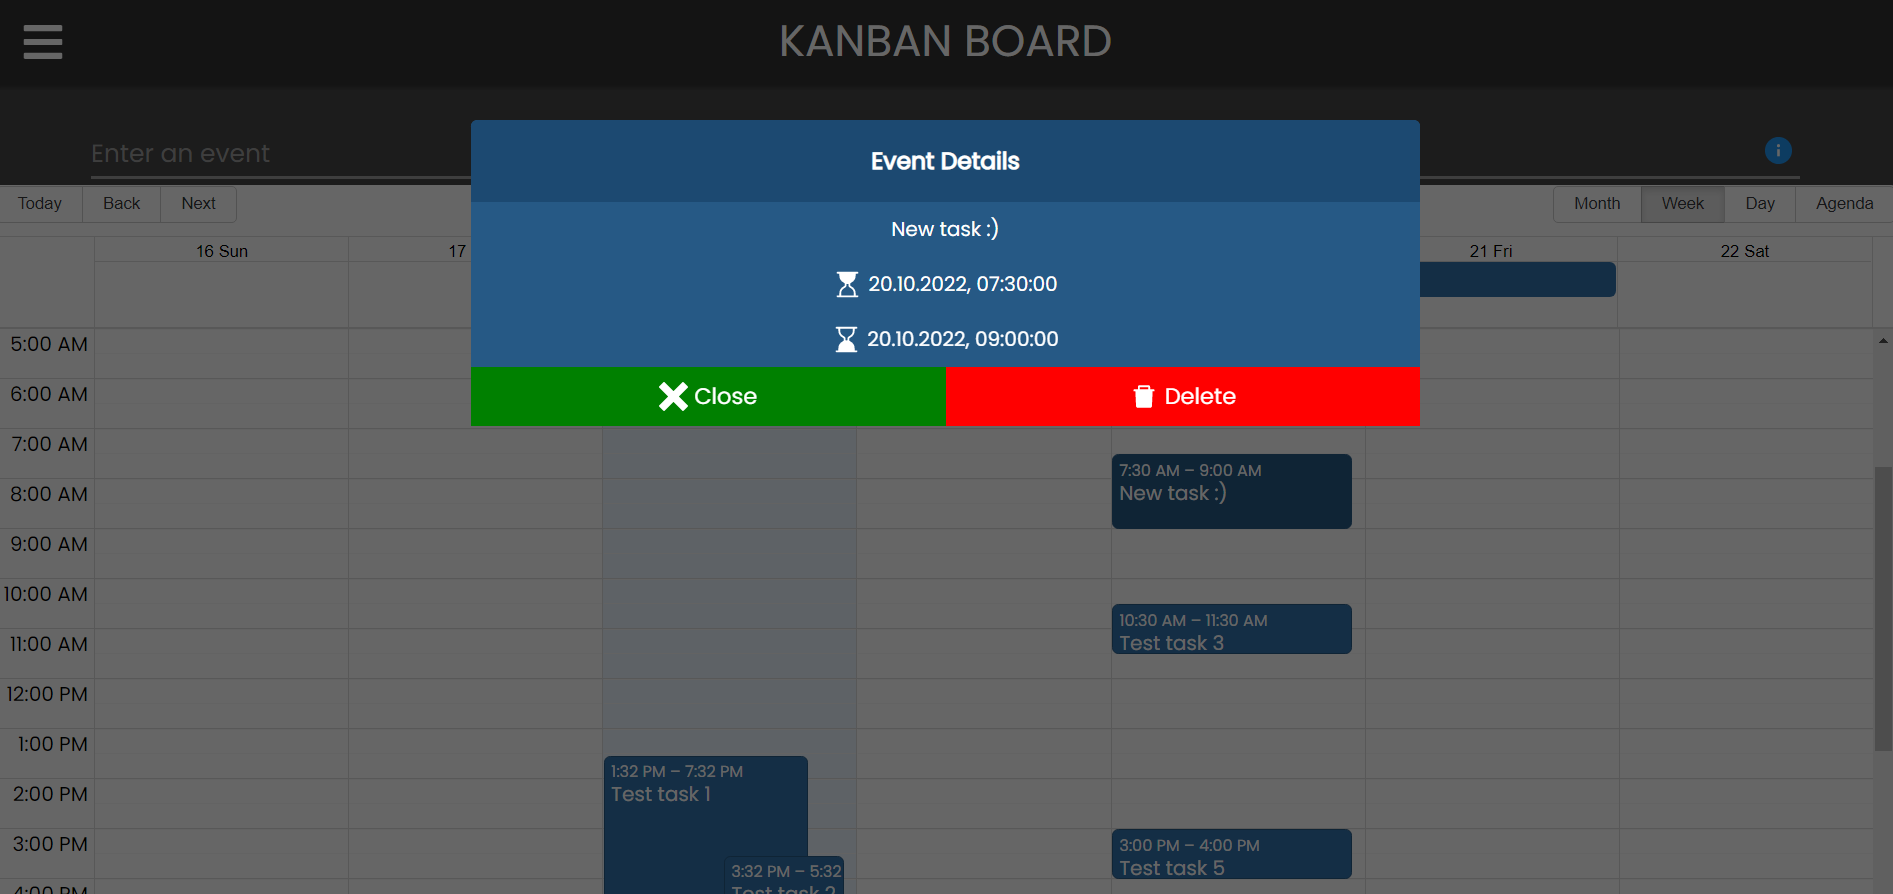
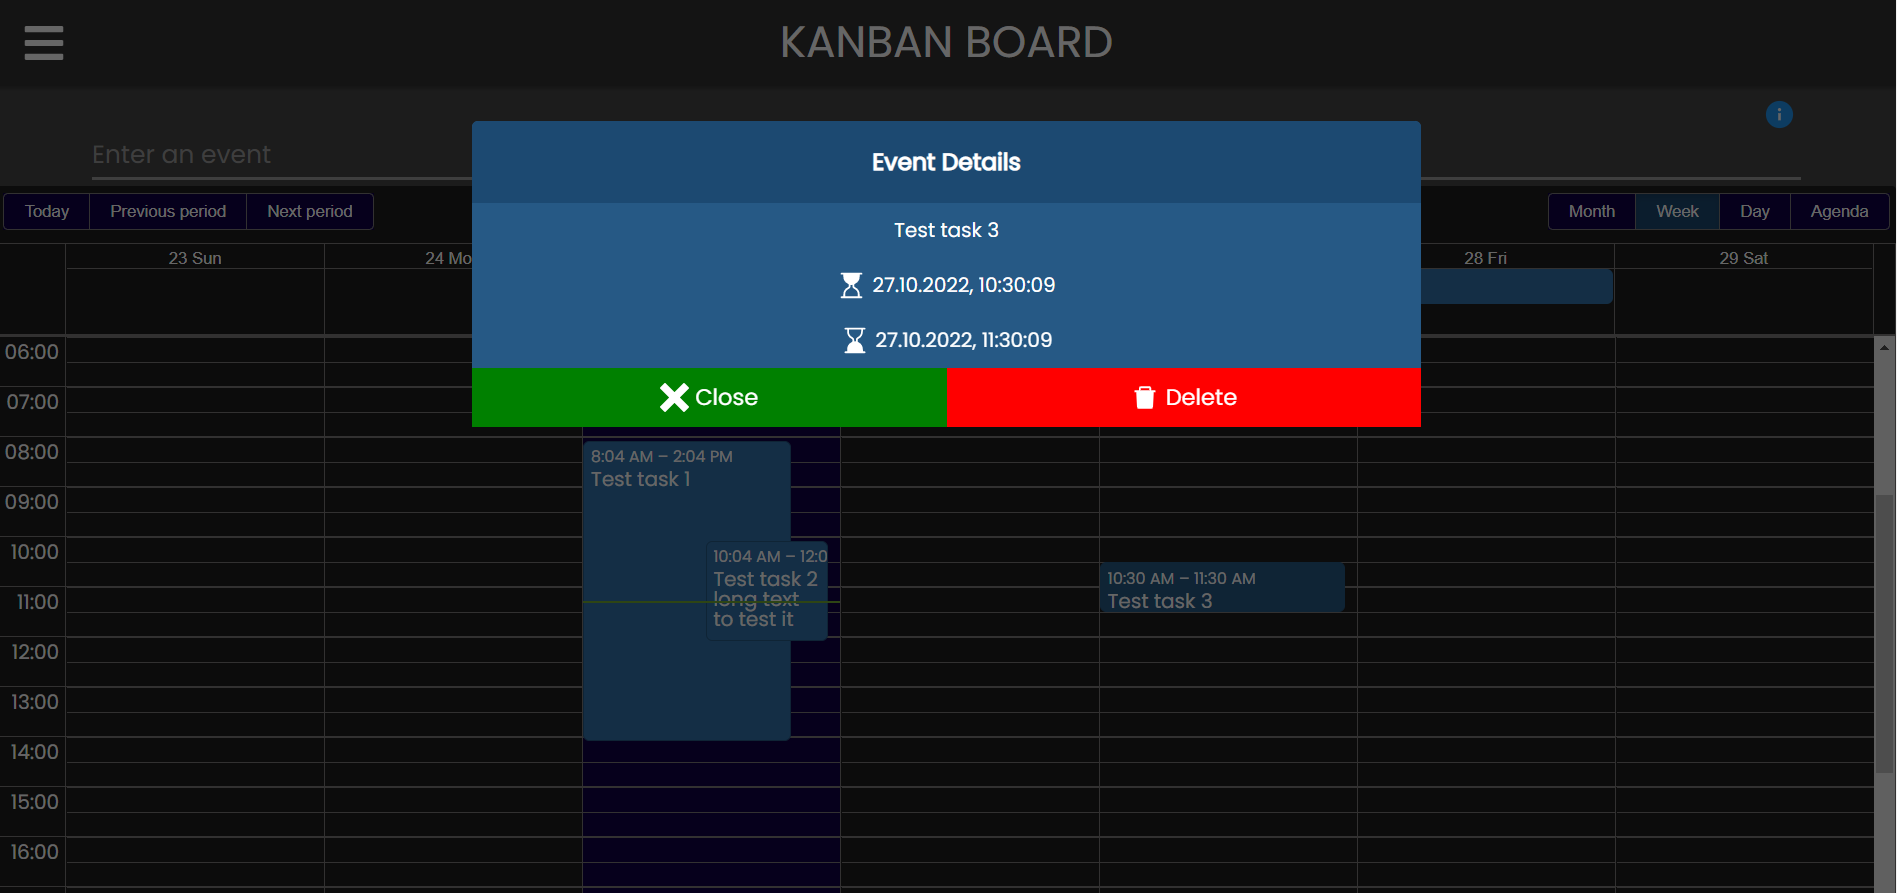
Event Calendar styles

diff --git a/src/styles/styles.scss b/src/styles/styles.scss
@@ -64,11 +64,13 @@ html {
 @media (max-width: 420px) {
     .topbar {
         .icon-bars {
-            top: 150px !important;
+            top: 83px !important;
             left: -5px !important;
-            color: #333333 !important;
-            font-size: 30px !important;
         }
+    }
+    .wrapper-event {
+        margin: 0px 5px 0px auto !important;
+        width: 80% !important;
     }
 }
 
@@ -645,30 +647,143 @@ html {
     }
 }
 .rbc-calendar {
-    background-color: white;
+    background-color: $main-color-darken;
     border-radius: 3px;
-    .rbc-show-more {
-        width: 100%;
-        text-align: left;
-        margin-top: 3px;
+    .rbc-today {
+        background-color: #100145;
     }
-    .rbc-agenda-event-cell {
-        white-space: nowrap;
+    .rbc-header {
+        color: white;
+        border-bottom: 1px solid $main-color-lighter;
+        & + .rbc-header {
+            border-left: 1px solid $main-color-lighter;
+        }
+    }
+    .rbc-day-bg {
+        & + .rbc-day-bg {
+            border-left: 1px solid $main-color-lighter;
+        }
     }
     .rbc-toolbar {
+        margin: 5px 5px 10px 5px;
         .rbc-toolbar-label {
             font-size: 20px;
+            color: white;
         }
         .rbc-btn-group {
+            background-color: #100145;
             button {
+                color: white;
                 cursor: pointer;
+                border: 1px solid $main-color-lighter;
+                transition: 0.2s background-color;
+                &:hover,
+                &:focus {
+                    background-color: #1c4971;
+                    color: white;
+                }
+            }
+            .rbc-active {
+                background-color: #1c4971;
+                transition: 0.2s color;
+                &:hover {
+                    color: white;
+                }
+            }
+        }
+    }
+    .rbc-month-view {
+        border: 1px solid $main-color-lighter;
+        .rbc-off-range-bg {
+            background-color: $main-color;
+        }
+        .rbc-today {
+            background-color: #100145;
+        }
+        .rbc-date-cell {
+            .rbc-button-link {
+                color: white;
+                transition: 0.2s transform;
+                &:hover {
+                    transform: scale(1.1);
+                }
+            }
+        }
+        .rbc-show-more {
+            margin-top: 3px;
+            background-color: inherit;
+            width: 90%;
+            text-align: left;
+            color: white;
+            transition: 0.2s color;
+            &:hover {
+                color: #4f96d4;
+            }
+        }
+        .rbc-selected-cell {
+            background-color: #035106;
+        }
+        .rbc-month-row {
+            & + .rbc-month-row {
+                border-top: 1px solid $main-color-lighter;
             }
         }
     }
     .rbc-time-view {
+        border: 1px solid $main-color-lighter;
+        .rbc-time-header-content {
+            border-left: 1px solid $main-color-lighter;
+            .rbc-header {
+                button {
+                    transition: 0.2s color;
+                    &:hover {
+                        color: #4f96d4;
+                    }
+                }
+            }
+        }
+        .rbc-time-header.rbc-overflowing {
+            border-right: 1px solid $main-color-lighter;
+        }
         .rbc-time-content {
+            border-top: 2px solid $main-color-lighter;
+            & > * + * > * {
+                border-left: 1px solid $main-color-lighter;
+            }
             .rbc-event {
                 flex-flow: column !important;
+            }
+        }
+        .rbc-timeslot-group {
+            border-bottom: 1px solid $main-color-lighter;
+            .rbc-label {
+                color: white;
+            }
+        }
+        .rbc-day-slot {
+            .rbc-timeslot-group {
+                .rbc-time-slot {
+                    border-top: 1px solid $main-color-lighter;
+                }
+            }
+        }
+    }
+    .rbc-agenda-view {
+        color: white;
+        table.rbc-agenda-table {
+            border: 1px solid $main-color-lighter;
+            .rbc-agenda-event-cell {
+                white-space: nowrap;
+                cursor: pointer;
+            }
+            thead > tr > th {
+                border-bottom: 1px solid $main-color-lighter;
+            }
+            tbody > tr > td + td {
+                border-left: 1px solid $main-color-lighter;
+            }
+            tbody > tr + tr {
+                border-top: 1px solid $main-color-lighter;
             }
         }
     }
@@ -733,7 +848,7 @@ html {
     .info-event-container {
         position: absolute;
         right: 5px;
-        top: 20px;
+        top: -10px;
         .icon-info {
             font-size: 25px;
             color: white;

diff --git a/src/styles/styles.css b/src/styles/styles.css
@@ -46,10 +46,12 @@ html {
 }
 @media (max-width: 420px) {
   .topbar .icon-bars {
-    top: 150px !important;
+    top: 83px !important;
     left: -5px !important;
-    color: #333333 !important;
-    font-size: 30px !important;
+  }
+  .wrapper-event {
+    margin: 0px 5px 0px auto !important;
+    width: 80% !important;
   }
 }
 .task-container .task-modal-button {
@@ -654,25 +656,133 @@ html {
 }
 
 .rbc-calendar {
-  background-color: white;
+  background-color: #1f1f1f;
   border-radius: 3px;
 }
-.rbc-calendar .rbc-show-more {
-  width: 100%;
-  text-align: left;
-  margin-top: 3px;
+.rbc-calendar .rbc-today {
+  background-color: #100145;
 }
-.rbc-calendar .rbc-agenda-event-cell {
-  white-space: nowrap;
+.rbc-calendar .rbc-header {
+  color: white;
+  border-bottom: 1px solid #7c7b7b;
+}
+.rbc-calendar .rbc-header + .rbc-header {
+  border-left: 1px solid #7c7b7b;
+}
+.rbc-calendar .rbc-day-bg + .rbc-day-bg {
+  border-left: 1px solid #7c7b7b;
+}
+.rbc-calendar .rbc-toolbar {
+  margin: 5px 5px 10px 5px;
 }
 .rbc-calendar .rbc-toolbar .rbc-toolbar-label {
   font-size: 20px;
+  color: white;
+}
+.rbc-calendar .rbc-toolbar .rbc-btn-group {
+  background-color: #100145;
 }
 .rbc-calendar .rbc-toolbar .rbc-btn-group button {
+  color: white;
   cursor: pointer;
+  border: 1px solid #7c7b7b;
+  transition: 0.2s background-color;
+}
+.rbc-calendar .rbc-toolbar .rbc-btn-group button:hover, .rbc-calendar .rbc-toolbar .rbc-btn-group button:focus {
+  background-color: #1c4971;
+  color: white;
+}
+.rbc-calendar .rbc-toolbar .rbc-btn-group .rbc-active {
+  background-color: #1c4971;
+  transition: 0.2s color;
+}
+.rbc-calendar .rbc-toolbar .rbc-btn-group .rbc-active:hover {
+  color: white;
+}
+.rbc-calendar .rbc-month-view {
+  border: 1px solid #7c7b7b;
+}
+.rbc-calendar .rbc-month-view .rbc-off-range-bg {
+  background-color: #474747;
+}
+.rbc-calendar .rbc-month-view .rbc-today {
+  background-color: #100145;
+}
+.rbc-calendar .rbc-month-view .rbc-date-cell .rbc-button-link {
+  color: white;
+  transition: 0.2s transform;
+}
+.rbc-calendar .rbc-month-view .rbc-date-cell .rbc-button-link:hover {
+  transform: scale(1.1);
+}
+.rbc-calendar .rbc-month-view .rbc-show-more {
+  margin-top: 3px;
+  background-color: inherit;
+  width: 90%;
+  text-align: left;
+  color: white;
+  transition: 0.2s color;
+}
+.rbc-calendar .rbc-month-view .rbc-show-more:hover {
+  color: #4f96d4;
+}
+.rbc-calendar .rbc-month-view .rbc-selected-cell {
+  background-color: #035106;
+}
+.rbc-calendar .rbc-month-view .rbc-month-row + .rbc-month-row {
+  border-top: 1px solid #7c7b7b;
+}
+.rbc-calendar .rbc-time-view {
+  border: 1px solid #7c7b7b;
+}
+.rbc-calendar .rbc-time-view .rbc-time-header-content {
+  border-left: 1px solid #7c7b7b;
+}
+.rbc-calendar .rbc-time-view .rbc-time-header-content .rbc-header button {
+  transition: 0.2s color;
+}
+.rbc-calendar .rbc-time-view .rbc-time-header-content .rbc-header button:hover {
+  color: #4f96d4;
+}
+.rbc-calendar .rbc-time-view .rbc-time-header.rbc-overflowing {
+  border-right: 1px solid #7c7b7b;
+}
+.rbc-calendar .rbc-time-view .rbc-time-content {
+  border-top: 2px solid #7c7b7b;
+}
+.rbc-calendar .rbc-time-view .rbc-time-content > * + * > * {
+  border-left: 1px solid #7c7b7b;
 }
 .rbc-calendar .rbc-time-view .rbc-time-content .rbc-event {
   flex-flow: column !important;
+}
+.rbc-calendar .rbc-time-view .rbc-timeslot-group {
+  border-bottom: 1px solid #7c7b7b;
+}
+.rbc-calendar .rbc-time-view .rbc-timeslot-group .rbc-label {
+  color: white;
+}
+.rbc-calendar .rbc-time-view .rbc-day-slot .rbc-timeslot-group .rbc-time-slot {
+  border-top: 1px solid #7c7b7b;
+}
+.rbc-calendar .rbc-agenda-view {
+  color: white;
+}
+.rbc-calendar .rbc-agenda-view table.rbc-agenda-table {
+  border: 1px solid #7c7b7b;
+}
+.rbc-calendar .rbc-agenda-view table.rbc-agenda-table .rbc-agenda-event-cell {
+  white-space: nowrap;
+  cursor: pointer;
+}
+.rbc-calendar .rbc-agenda-view table.rbc-agenda-table thead > tr > th {
+  border-bottom: 1px solid #7c7b7b;
+}
+.rbc-calendar .rbc-agenda-view table.rbc-agenda-table tbody > tr > td + td {
+  border-left: 1px solid #7c7b7b;
+}
+.rbc-calendar .rbc-agenda-view table.rbc-agenda-table tbody > tr + tr {
+  border-top: 1px solid #7c7b7b;
 }
 
 @media (max-width: 650px) {
@@ -749,7 +859,7 @@ html {
 .wrapper-event .info-event-container {
   position: absolute;
   right: 5px;
-  top: 20px;
+  top: -10px;
 }
 .wrapper-event .info-event-container .icon-info {
   font-size: 25px;

diff --git a/src/pages/EventCalendarPage.tsx b/src/pages/EventCalendarPage.tsx
@@ -132,6 +132,24 @@ const EventCalendarPage: React.FC = () => {
                 onSelectSlot={handleSelectSlot}
                 onSelectEvent={handleSelectEvent}
                 selectable
+                formats={{
+                    agendaHeaderFormat: ({ start, end }) =>
+                        moment(start).format('DD.MM.YYYY') +
+                        ' - ' +
+                        moment(end).format('DD.MM.YYYY'),
+
+                    agendaTimeRangeFormat: ({ start, end }) =>
+                        moment(start).format('HH:mm') +
+                        ' - ' +
+                        moment(end).format('HH:mm'),
+
+                    agendaTimeFormat: (date) => moment(date).format('HH:mm'),
+                    timeGutterFormat: (date) => moment(date).format('HH:mm'),
+                }}
+                messages={{
+                    previous: 'Previous period',
+                    next: 'Next period',
+                }}
             />
         </div>
     )

diff --git a/README.md b/README.md
@@ -1,7 +1,7 @@
 # Kanban Board
 
 An application used to manage your tasks.<br />
-Built with React, TypeScript, SCSS<br />
+Built with React (Context API and React Router), TypeScript, SCSS<br />
 In order to work well with this application, you need to clone the API from this [repo](https://github.com/rnycz/kanban-board-api) created specifically for this project and follow the steps to set it up. If not, you can continue in offline mode, but if you close the application, the progress will not be saved. <br />
 Event calendar thanks to [React Big Calendar](http://jquense.github.io/react-big-calendar/examples/?path=/story/about-big-calendar--page) <br />
 Notifications thanks to [React Toastify](https://www.npmjs.com/package/react-toastify) <br />
@@ -16,9 +16,7 @@ The following features have been implemented:
 -   Random joke fetched from [Dev Joke API](https://documenter.getpostman.com/view/16443297/TzkyLee7)
 -   Tasks fetched from [custom API](https://github.com/rnycz/kanban-board-api). Performing operations in the application causes changes in the database, e.g. adding a new task or deleting a task
 -   Offline mode
--   Event calendar (possbility to add and remove events) - working on it
-
-TODO: event calendar styles
+-   Event calendar (possbility to add and remove events)
 
 ## Installation and Setup Instructions
 
